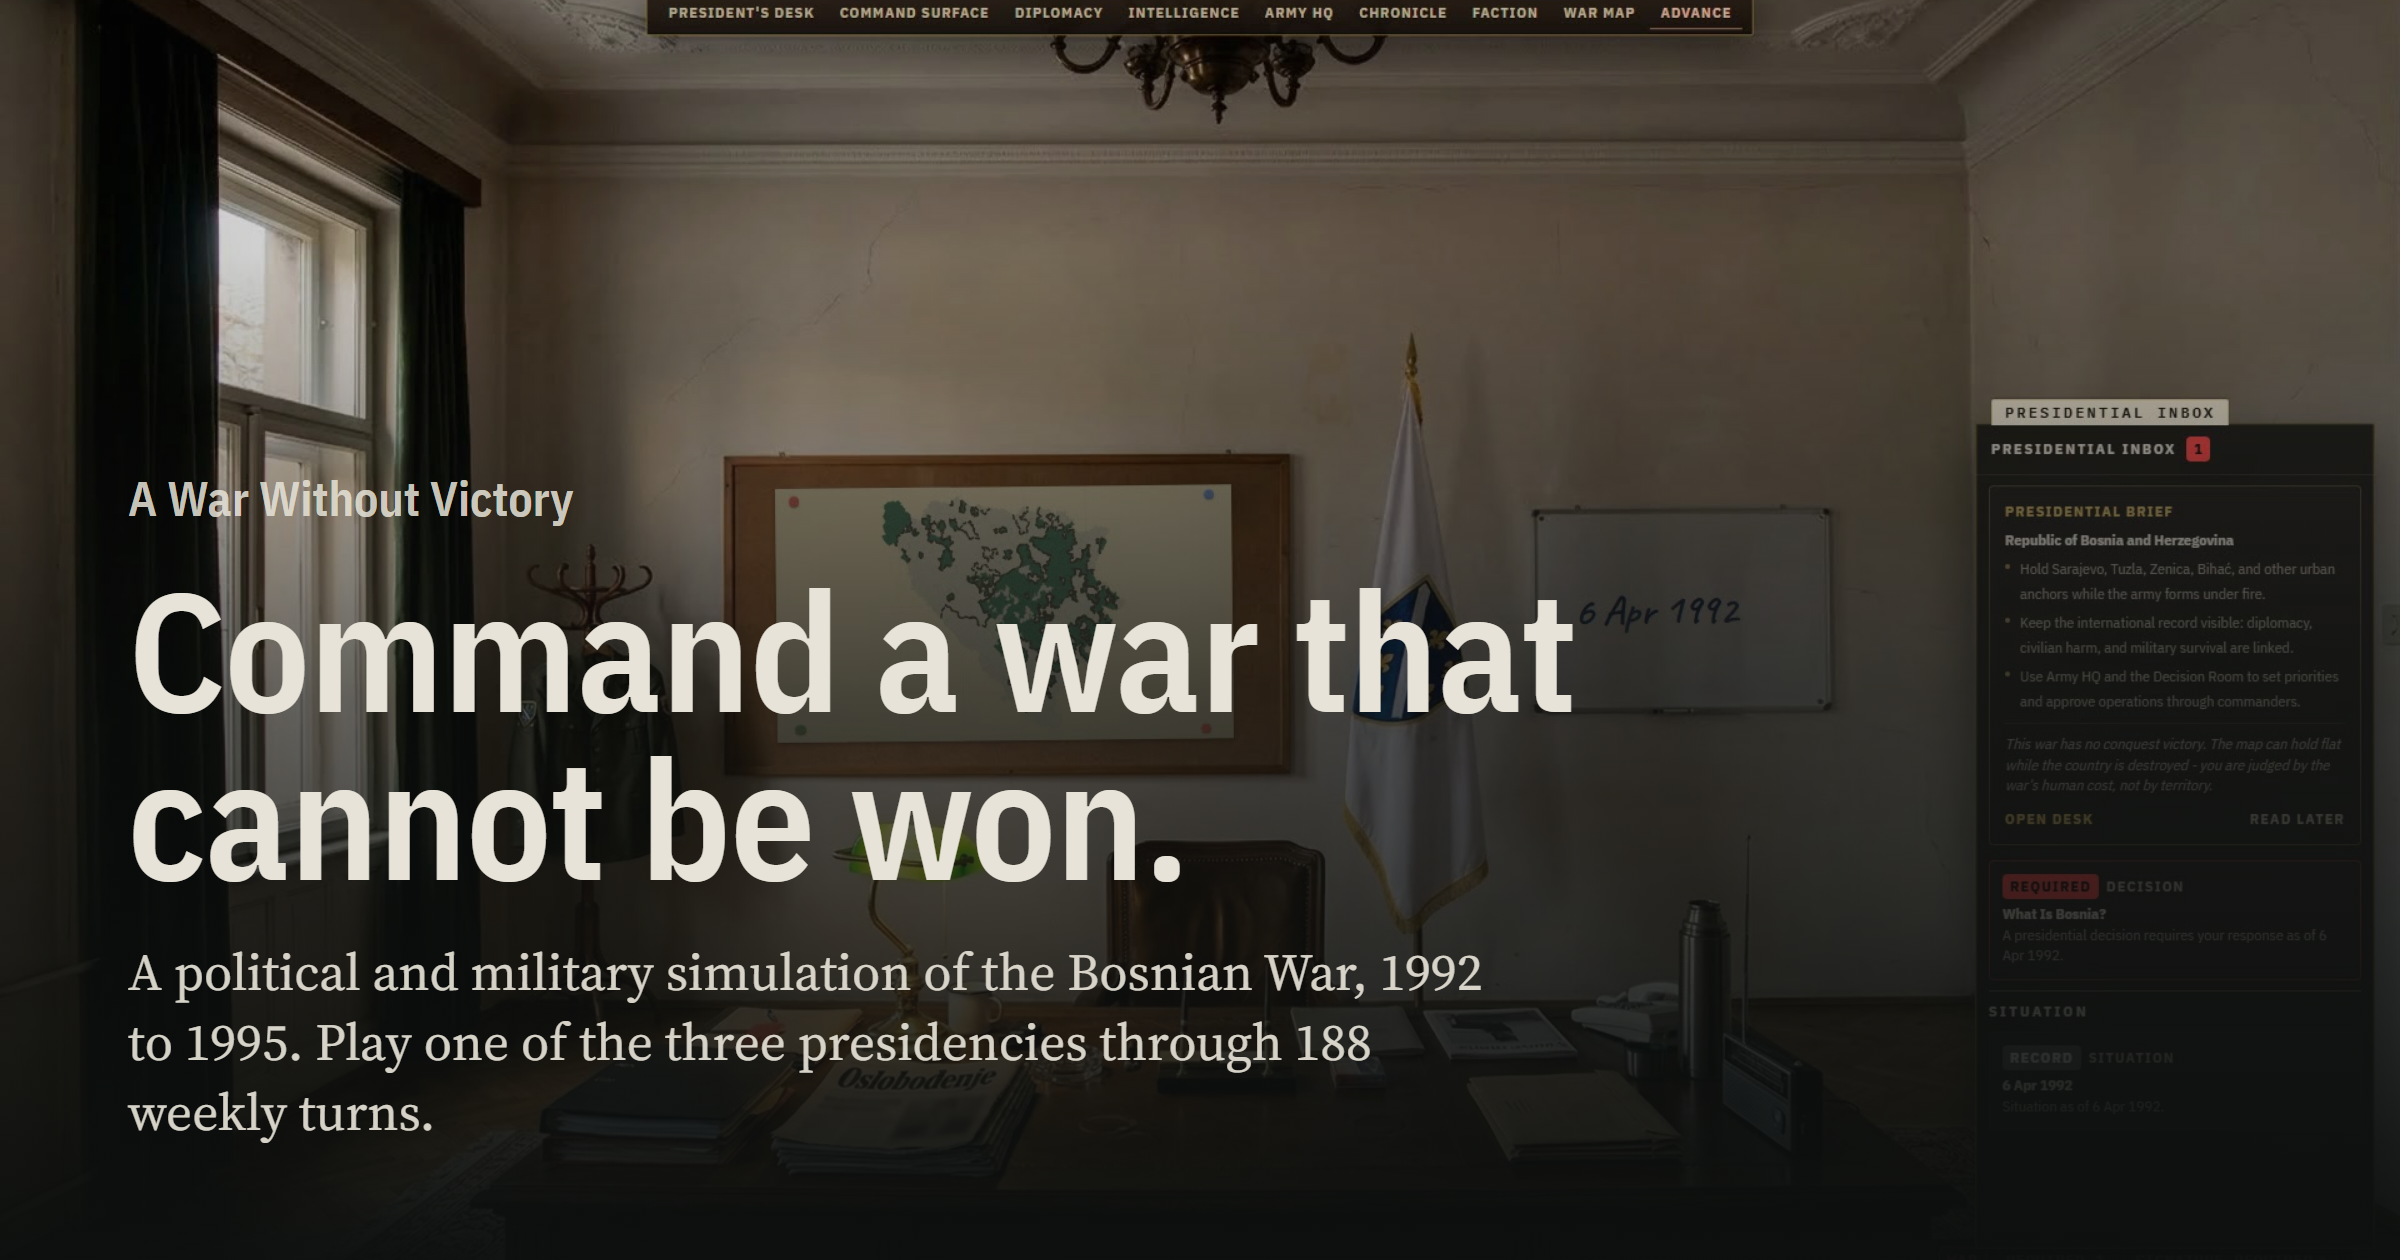
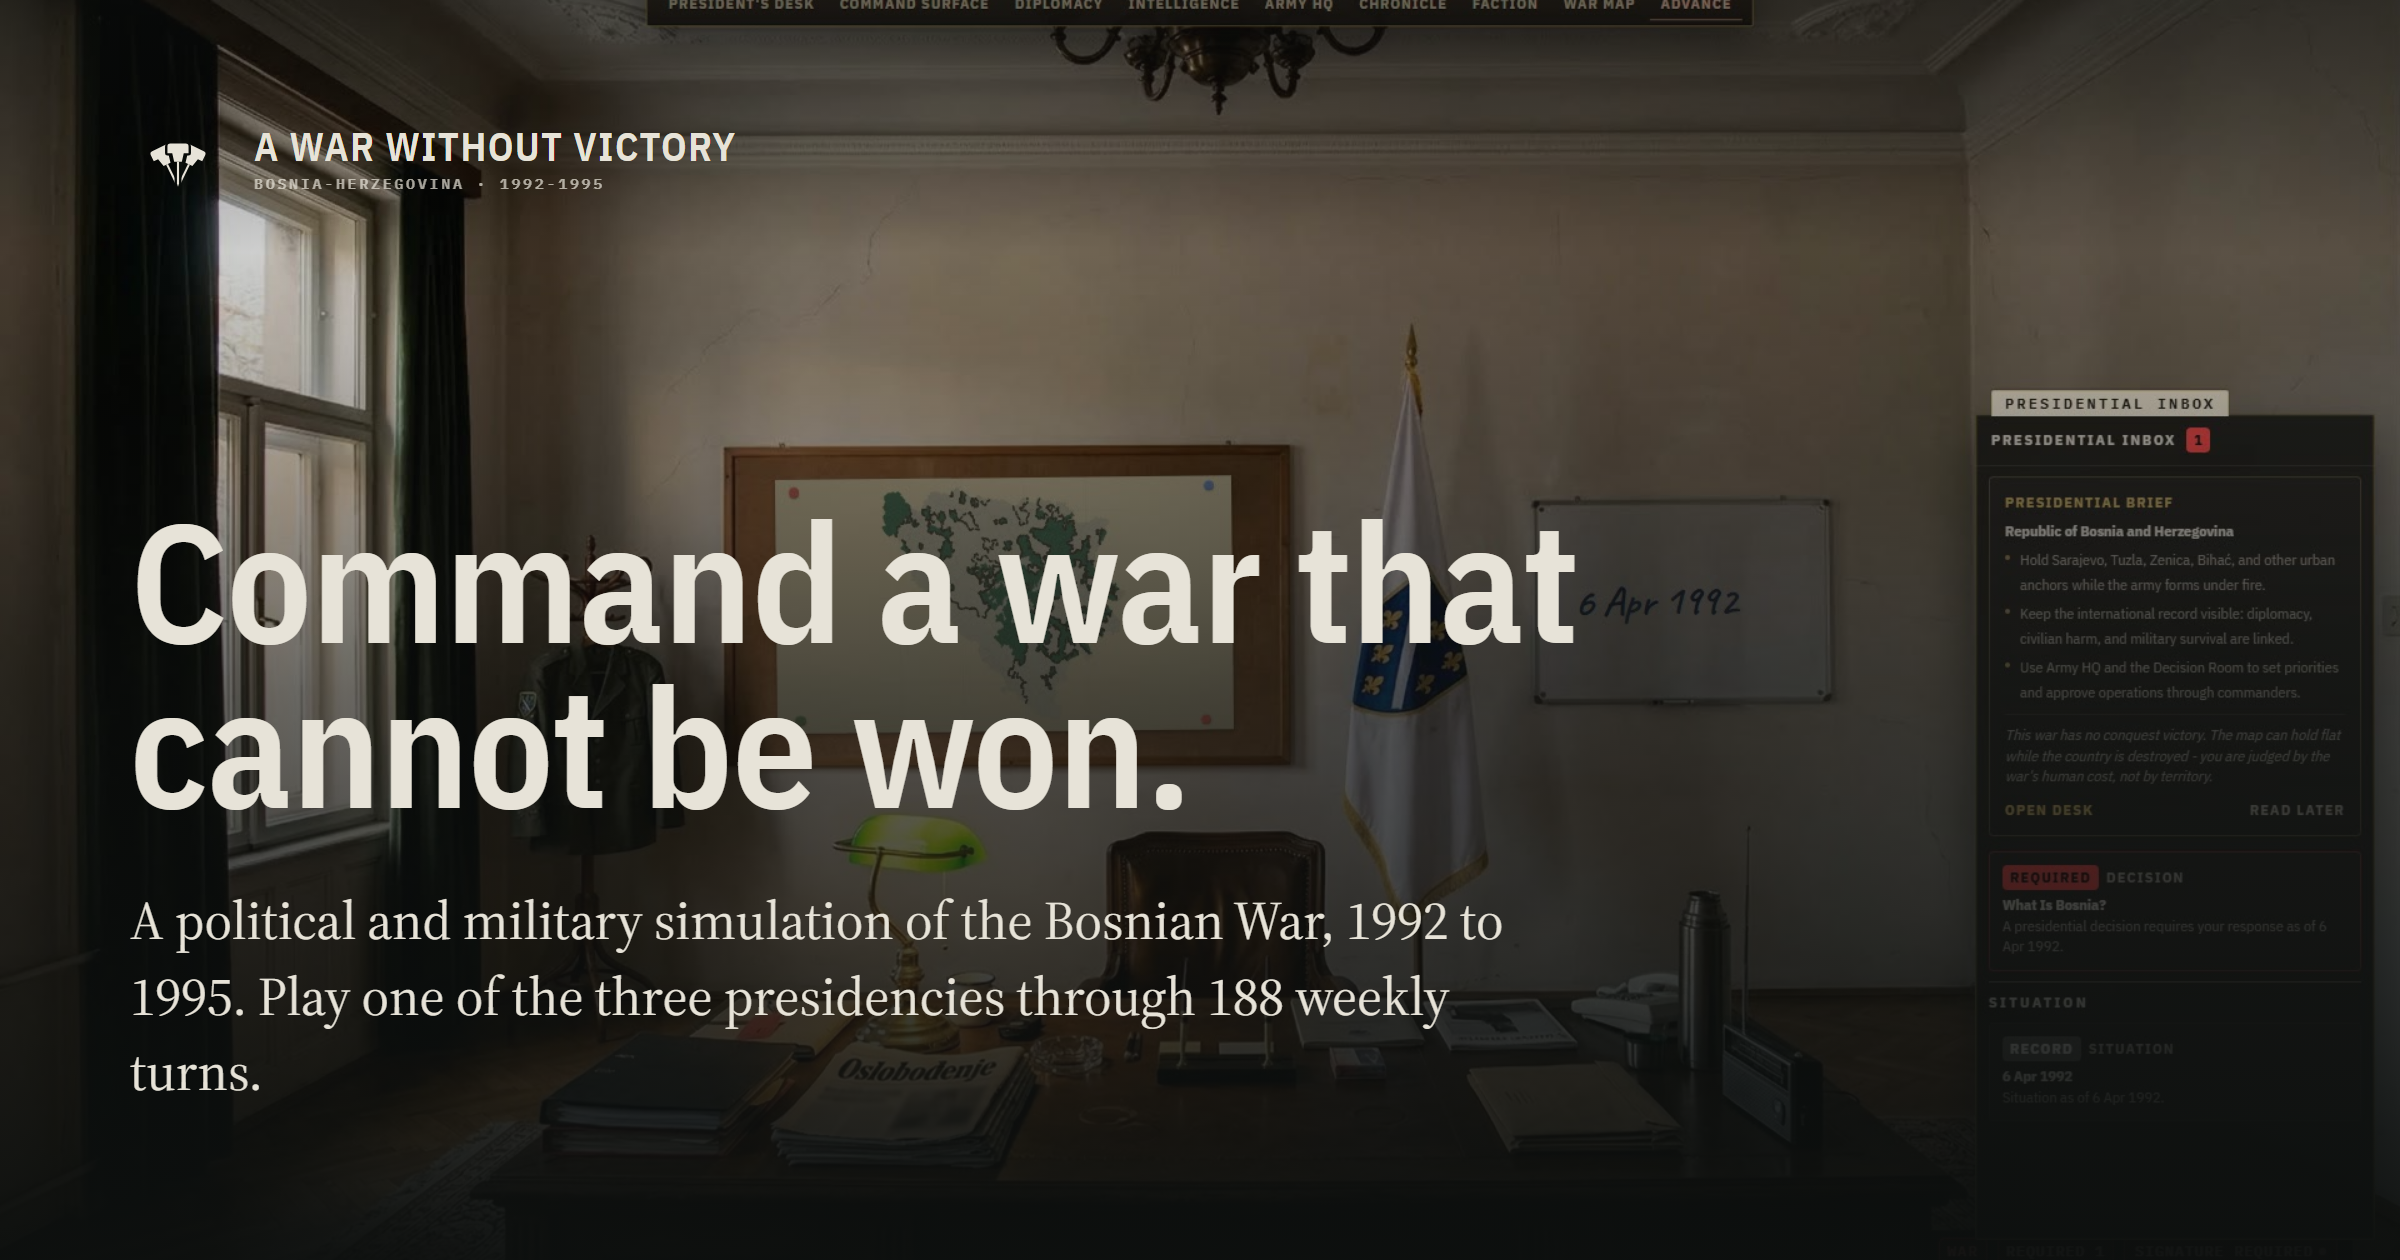
New mark: three pins driven into one hole
The laurel wreath is retired. The site favicon, the header on every page and
the social card now carry the convergence mark, three identical pushpins in
one ink, with the title set as the game's own title screen sets it. The old
mark file is replaced by the dark tile so nothing linking to it breaks.

og.png is rendered by the new production/capture/render_og.mjs, which uses the
game repo's Chromium like the rest of the rig. Media check passes.

diff --git a/bs/screens.html b/bs/screens.html
@@ -13,7 +13,7 @@
 </head>
 <body class="paper-page">
 <header class="top">
-  <a class="wordmark" href="../bs/">A War Without Victory</a>
+  <a class="wordmark" href="../bs/"><svg class="wordmark__mark" viewBox="0 0 100 100" aria-hidden="true"><mask id="gap"><rect width="100" height="100" fill="#fff"/><g transform="translate(50 80) rotate(0) translate(0 -45)" fill="#000" stroke="#000" stroke-width="6" stroke-linejoin="round"><path d="M-13 3.5a3.5 3.5 0 0 1 3.5-3.5h19a3.5 3.5 0 0 1 3.5 3.5v7.5h-5.5l-2.5 9h-10l-2.5-9h-5.5z"/><path d="M-3.4 20h6.8v19L0 45l-3.4-6z"/></g></mask><g fill="currentColor"><g mask="url(#gap)"><g transform="translate(50 80) rotate(-26) translate(0 -45)"><path d="M-13 3.5a3.5 3.5 0 0 1 3.5-3.5h19a3.5 3.5 0 0 1 3.5 3.5v7.5h-5.5l-2.5 9h-10l-2.5-9h-5.5z"/><path d="M-3.4 20h6.8v19L0 45l-3.4-6z"/></g><g transform="translate(50 80) rotate(26) translate(0 -45)"><path d="M-13 3.5a3.5 3.5 0 0 1 3.5-3.5h19a3.5 3.5 0 0 1 3.5 3.5v7.5h-5.5l-2.5 9h-10l-2.5-9h-5.5z"/><path d="M-3.4 20h6.8v19L0 45l-3.4-6z"/></g></g><g transform="translate(50 80) rotate(0) translate(0 -45)"><path d="M-13 3.5a3.5 3.5 0 0 1 3.5-3.5h19a3.5 3.5 0 0 1 3.5 3.5v7.5h-5.5l-2.5 9h-10l-2.5-9h-5.5z"/><path d="M-3.4 20h6.8v19L0 45l-3.4-6z"/></g></g></svg><span>A War Without Victory</span></a>
   <nav><a href="../bs/">Nazad na početnu</a><a href="../../screens.html">English</a></nav>
 </header>
 <main class="wrap">

diff --git a/screens.html b/screens.html
@@ -13,7 +13,7 @@
 </head>
 <body class="paper-page">
 <header class="top">
-  <a class="wordmark" href="">A War Without Victory</a>
+  <a class="wordmark" href=""><svg class="wordmark__mark" viewBox="0 0 100 100" aria-hidden="true"><mask id="gap"><rect width="100" height="100" fill="#fff"/><g transform="translate(50 80) rotate(0) translate(0 -45)" fill="#000" stroke="#000" stroke-width="6" stroke-linejoin="round"><path d="M-13 3.5a3.5 3.5 0 0 1 3.5-3.5h19a3.5 3.5 0 0 1 3.5 3.5v7.5h-5.5l-2.5 9h-10l-2.5-9h-5.5z"/><path d="M-3.4 20h6.8v19L0 45l-3.4-6z"/></g></mask><g fill="currentColor"><g mask="url(#gap)"><g transform="translate(50 80) rotate(-26) translate(0 -45)"><path d="M-13 3.5a3.5 3.5 0 0 1 3.5-3.5h19a3.5 3.5 0 0 1 3.5 3.5v7.5h-5.5l-2.5 9h-10l-2.5-9h-5.5z"/><path d="M-3.4 20h6.8v19L0 45l-3.4-6z"/></g><g transform="translate(50 80) rotate(26) translate(0 -45)"><path d="M-13 3.5a3.5 3.5 0 0 1 3.5-3.5h19a3.5 3.5 0 0 1 3.5 3.5v7.5h-5.5l-2.5 9h-10l-2.5-9h-5.5z"/><path d="M-3.4 20h6.8v19L0 45l-3.4-6z"/></g></g><g transform="translate(50 80) rotate(0) translate(0 -45)"><path d="M-13 3.5a3.5 3.5 0 0 1 3.5-3.5h19a3.5 3.5 0 0 1 3.5 3.5v7.5h-5.5l-2.5 9h-10l-2.5-9h-5.5z"/><path d="M-3.4 20h6.8v19L0 45l-3.4-6z"/></g></g></svg><span>A War Without Victory</span></a>
   <nav><a href="">Back to the front page</a><a href="bs/screens.html">Bosanski</a></nav>
 </header>
 <main class="wrap">

diff --git a/bs/index.html b/bs/index.html
@@ -18,7 +18,7 @@
 <body>
 
 <header class="top">
-  <a class="wordmark" href="#">A War Without Victory</a>
+  <a class="wordmark" href="#"><svg class="wordmark__mark" viewBox="0 0 100 100" aria-hidden="true"><mask id="gap"><rect width="100" height="100" fill="#fff"/><g transform="translate(50 80) rotate(0) translate(0 -45)" fill="#000" stroke="#000" stroke-width="6" stroke-linejoin="round"><path d="M-13 3.5a3.5 3.5 0 0 1 3.5-3.5h19a3.5 3.5 0 0 1 3.5 3.5v7.5h-5.5l-2.5 9h-10l-2.5-9h-5.5z"/><path d="M-3.4 20h6.8v19L0 45l-3.4-6z"/></g></mask><g fill="currentColor"><g mask="url(#gap)"><g transform="translate(50 80) rotate(-26) translate(0 -45)"><path d="M-13 3.5a3.5 3.5 0 0 1 3.5-3.5h19a3.5 3.5 0 0 1 3.5 3.5v7.5h-5.5l-2.5 9h-10l-2.5-9h-5.5z"/><path d="M-3.4 20h6.8v19L0 45l-3.4-6z"/></g><g transform="translate(50 80) rotate(26) translate(0 -45)"><path d="M-13 3.5a3.5 3.5 0 0 1 3.5-3.5h19a3.5 3.5 0 0 1 3.5 3.5v7.5h-5.5l-2.5 9h-10l-2.5-9h-5.5z"/><path d="M-3.4 20h6.8v19L0 45l-3.4-6z"/></g></g><g transform="translate(50 80) rotate(0) translate(0 -45)"><path d="M-13 3.5a3.5 3.5 0 0 1 3.5-3.5h19a3.5 3.5 0 0 1 3.5 3.5v7.5h-5.5l-2.5 9h-10l-2.5-9h-5.5z"/><path d="M-3.4 20h6.8v19L0 45l-3.4-6z"/></g></g></svg><span>A War Without Victory</span></a>
   <nav>
     <a href="#presidents">Tri predsjednika</a>
     <a href="#verdict">Kako se završava</a>

diff --git a/index.html b/index.html
@@ -18,7 +18,7 @@
 <body>
 
 <header class="top">
-  <a class="wordmark" href="#">A War Without Victory</a>
+  <a class="wordmark" href="#"><svg class="wordmark__mark" viewBox="0 0 100 100" aria-hidden="true"><mask id="gap"><rect width="100" height="100" fill="#fff"/><g transform="translate(50 80) rotate(0) translate(0 -45)" fill="#000" stroke="#000" stroke-width="6" stroke-linejoin="round"><path d="M-13 3.5a3.5 3.5 0 0 1 3.5-3.5h19a3.5 3.5 0 0 1 3.5 3.5v7.5h-5.5l-2.5 9h-10l-2.5-9h-5.5z"/><path d="M-3.4 20h6.8v19L0 45l-3.4-6z"/></g></mask><g fill="currentColor"><g mask="url(#gap)"><g transform="translate(50 80) rotate(-26) translate(0 -45)"><path d="M-13 3.5a3.5 3.5 0 0 1 3.5-3.5h19a3.5 3.5 0 0 1 3.5 3.5v7.5h-5.5l-2.5 9h-10l-2.5-9h-5.5z"/><path d="M-3.4 20h6.8v19L0 45l-3.4-6z"/></g><g transform="translate(50 80) rotate(26) translate(0 -45)"><path d="M-13 3.5a3.5 3.5 0 0 1 3.5-3.5h19a3.5 3.5 0 0 1 3.5 3.5v7.5h-5.5l-2.5 9h-10l-2.5-9h-5.5z"/><path d="M-3.4 20h6.8v19L0 45l-3.4-6z"/></g></g><g transform="translate(50 80) rotate(0) translate(0 -45)"><path d="M-13 3.5a3.5 3.5 0 0 1 3.5-3.5h19a3.5 3.5 0 0 1 3.5 3.5v7.5h-5.5l-2.5 9h-10l-2.5-9h-5.5z"/><path d="M-3.4 20h6.8v19L0 45l-3.4-6z"/></g></g></svg><span>A War Without Victory</span></a>
   <nav>
     <a href="#presidents">Three presidents</a>
     <a href="#verdict">How it ends</a>

diff --git a/styles.css b/styles.css
@@ -50,7 +50,8 @@ h3 { font-size: 1.45rem; margin-bottom: 0.5rem; }
   padding: 1.1rem var(--pad);
 }
 .paper-page .top { position: static; background: var(--paper); color: var(--ink); border-bottom: 1px solid var(--paper-edge); }
-.wordmark { font-family: var(--cond); font-weight: 600; font-size: 1.15rem; text-decoration: none; }
+.wordmark { display: inline-flex; align-items: center; gap: 0.45rem; font-family: var(--cond); font-weight: 600; font-size: 1.15rem; text-decoration: none; }
+.wordmark__mark { width: 2rem; height: 2rem; flex: none; margin: -0.3rem 0; }
 .top nav { display: flex; gap: 1.4rem; flex-wrap: wrap; font-family: var(--cond); font-size: 1rem; }
 .top nav a { text-decoration: none; opacity: 0.85; }
 .top nav a:hover { opacity: 1; text-decoration: underline; text-underline-offset: 0.2em; }
